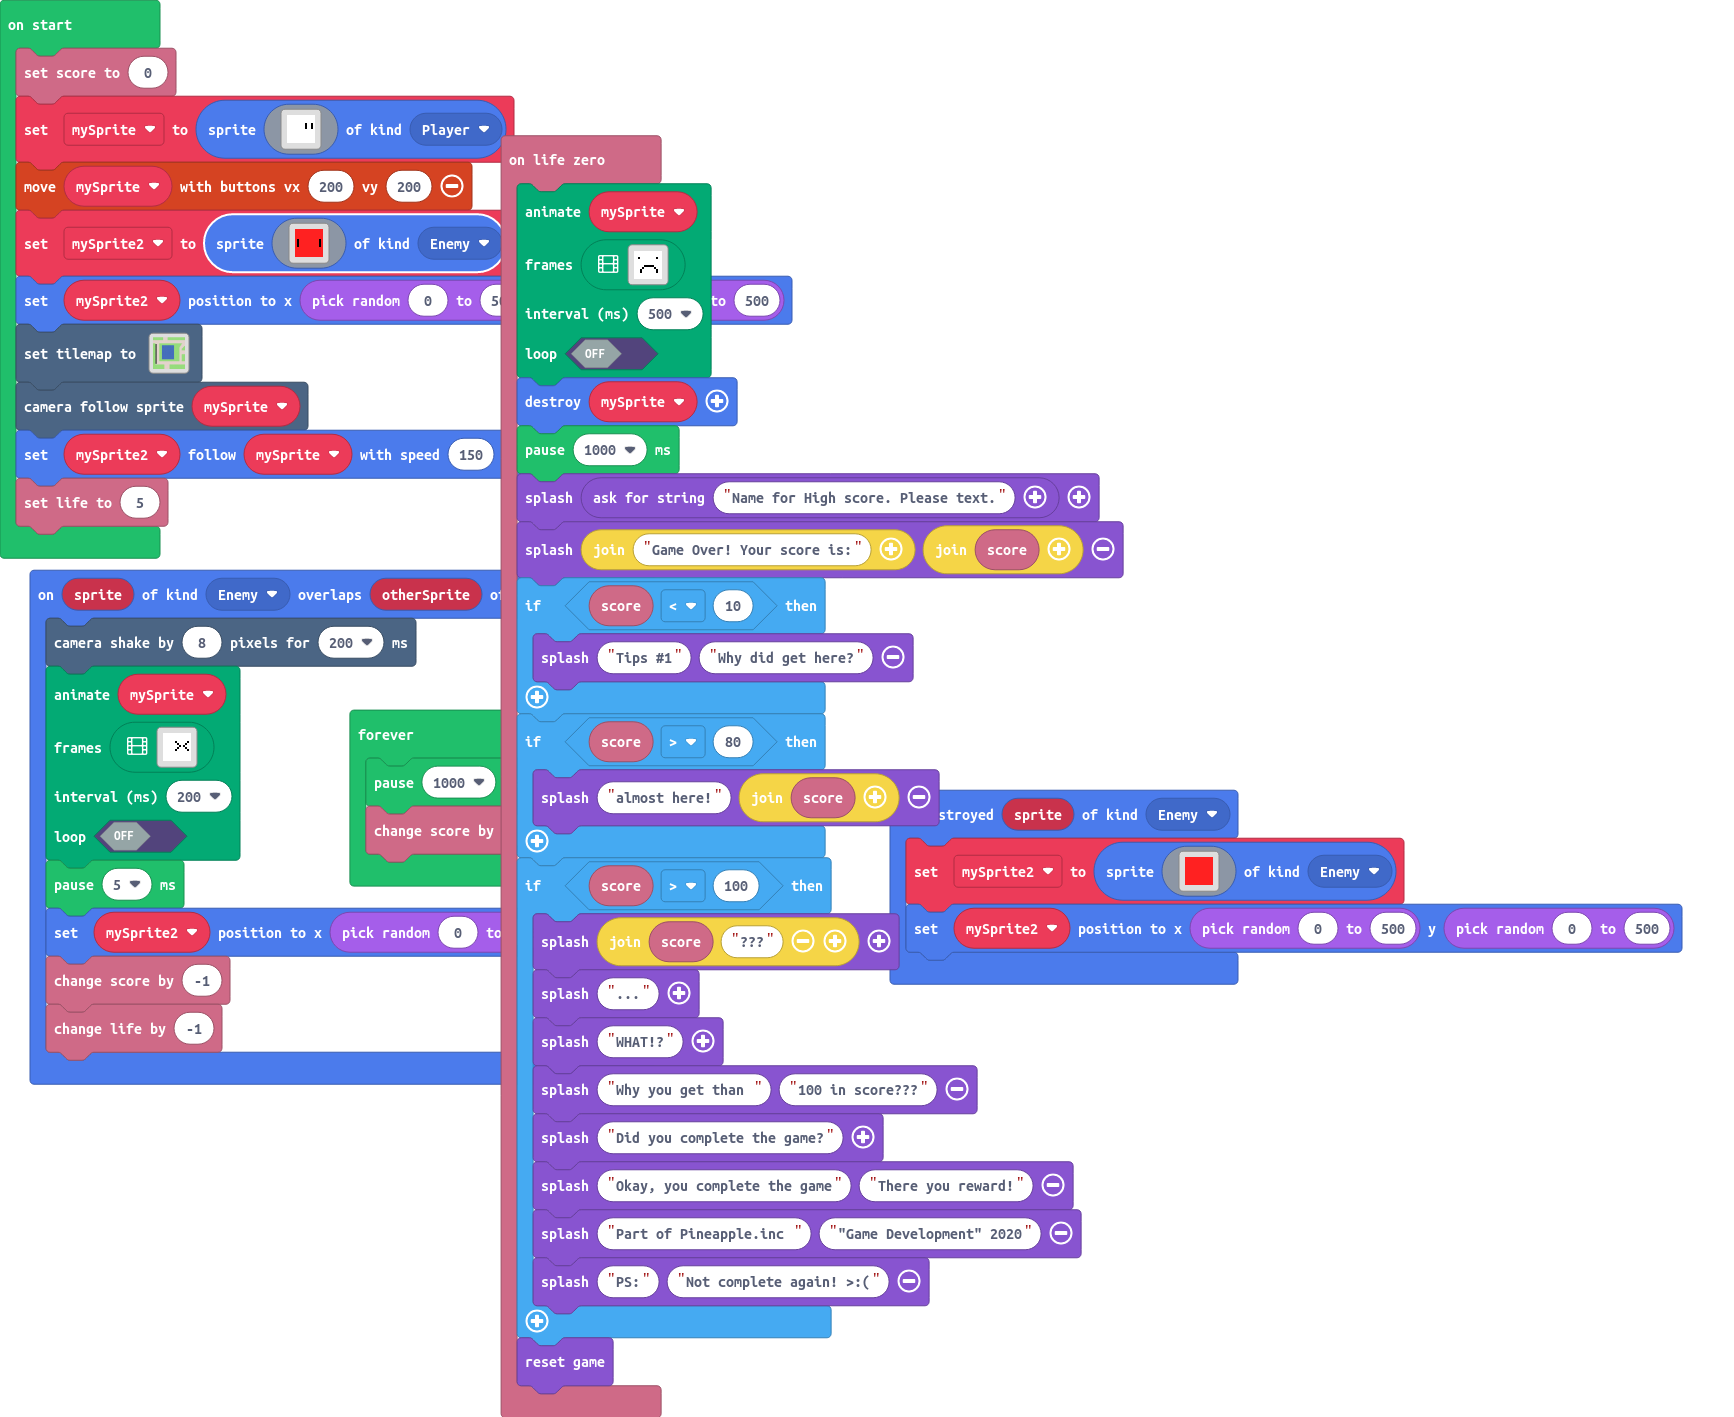
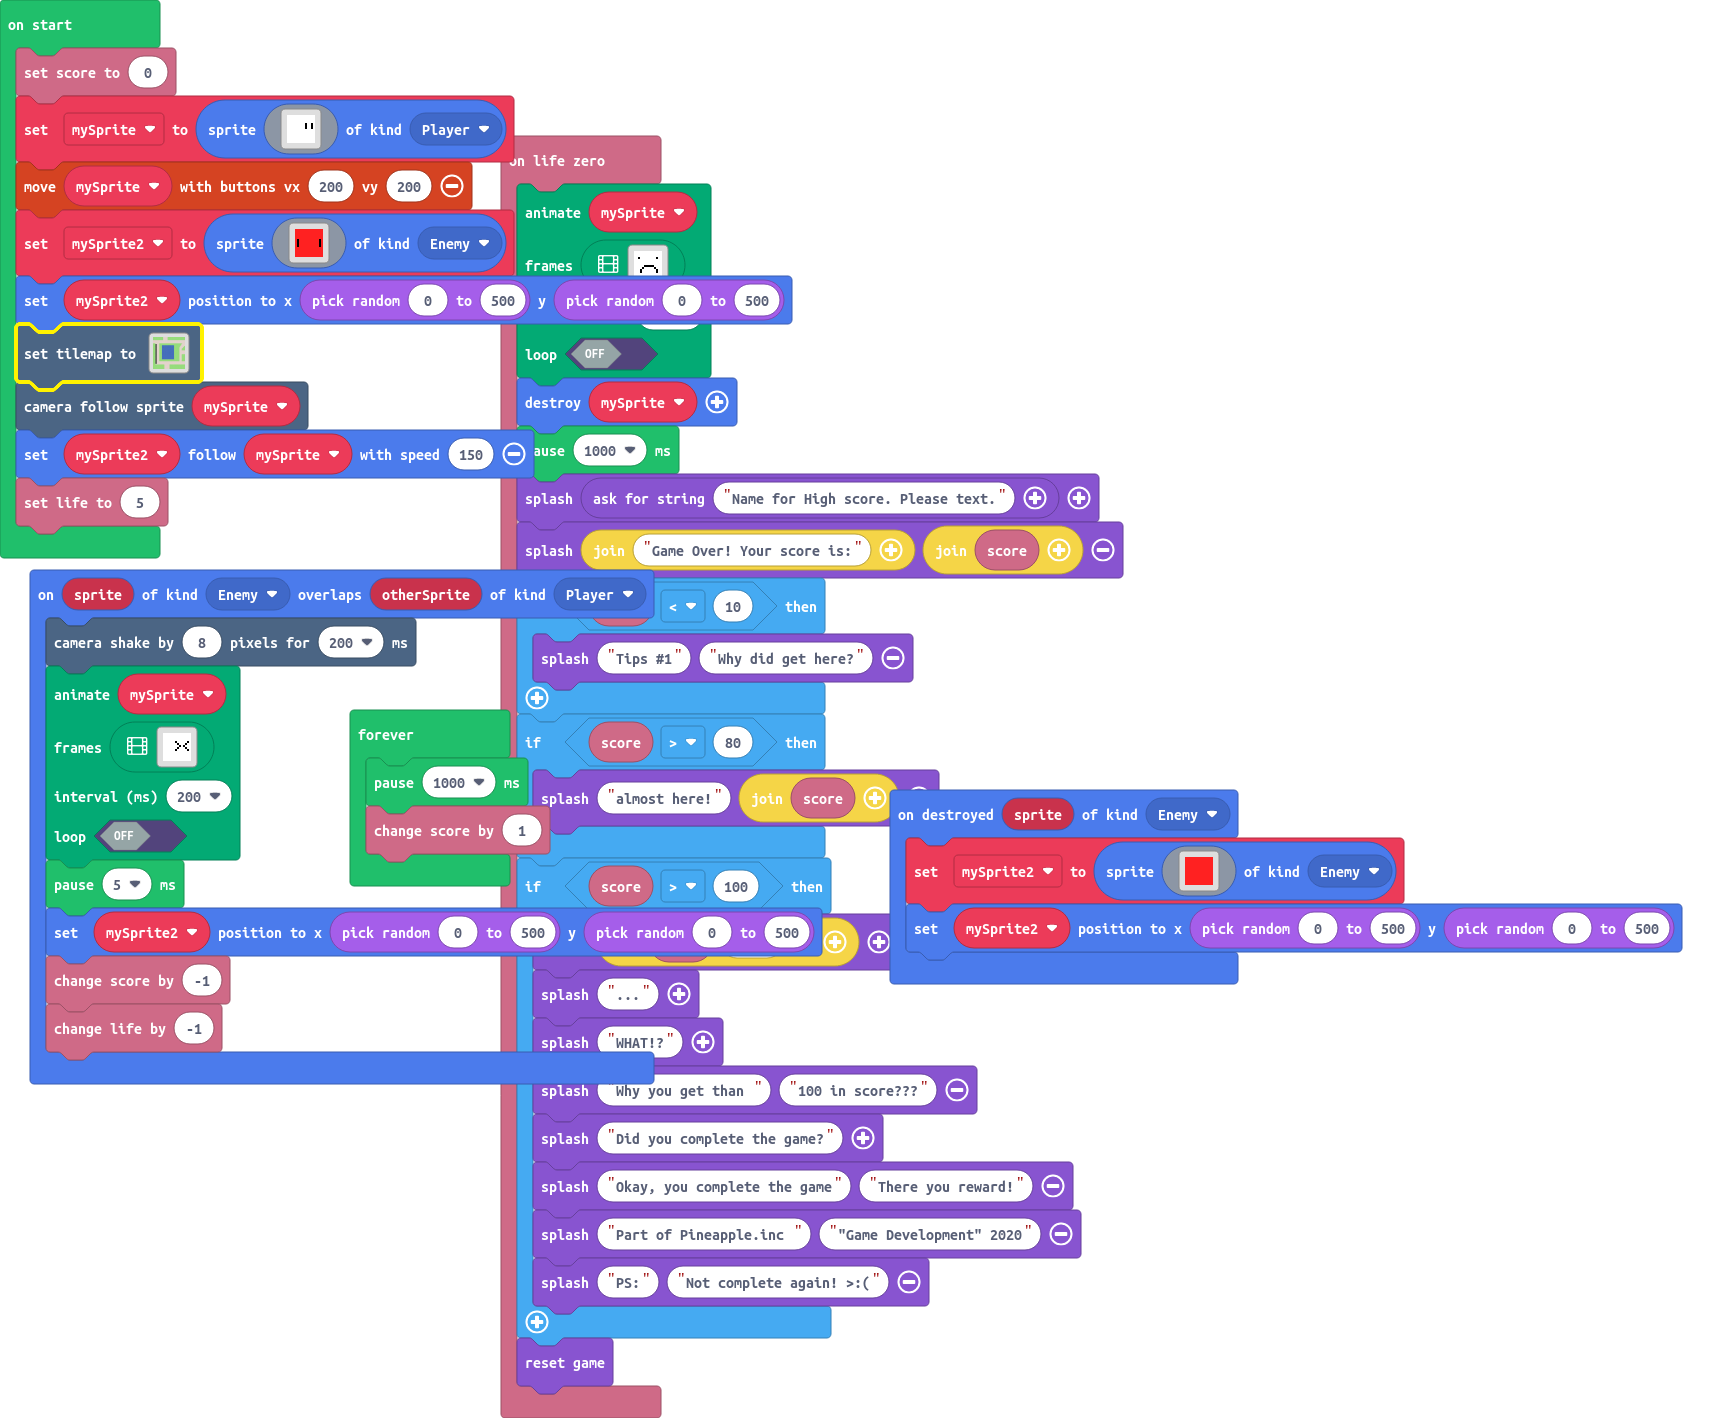
6.3: Brand New Maps!

diff --git a/main.ts b/main.ts
@@ -204,7 +204,7 @@ mySprite2 = sprites.create(img`
     . . . . . . . . . . . . . . . . 
     `, SpriteKind.Enemy)
 mySprite2.setPosition(randint(0, 500), randint(0, 500))
-tiles.setTilemap(tiles.createTilemap(hex`3200320003030303030303030303030303030303010101010101010303030303030303030303030303030303030303030303030303030303030303030303030303030303030301010101010101030303030303030303030303030303030303030303030303030303030303030303030303030303030303030101010101010103030303030303030303030303030303030303030303030303030303030303030303030303030303030303010101010101010303030303030303030303030303030303030303030303030303030303030303030303030303030303030301010101010101030303030303030303030303030303030303030303030303030303010101010101010101010101010101010101010101010101010101010101010101010101010101010101010101010101010101010101010101010101010101010101010101010101010101010101010101010101010101010101010101010101010101010101010101010101010101010101010101010101010101010101010101010101010101010101010101010101010101010101010101010101010101010101010101010101010101010101010101010101010101010101010101010101010101010101010101010101010101010101010101010101010101010101010101010101010101010101010101010101010101010101010101010303030301010101010103030303030303030303030303030303030303030303030303030303030303030303030401010101030303030505010101010303030303030303030303030303030303030303030303030303030303030303030304010101010103030303050501010101030303030303030303030303030303030303030303030303030303030303030303030401010101010303030305050101010103030303020202020202020202020202020202020202020303030303030303030304010101010101030303030505010101010303030302020202020202020202020202020202020202030303030303030303040101010101010303030303050501010101030303030202020202020202020202020202020202020203030303030303030304010101010103030303030305050101010103030303020202020202020202020202020202020202020303030303030303040101010101030303030303030505010101010303030302020202020202020202020202020202020202030303030303030304010101010303030303030303050501010101030303030202020202020202020202020202020202020203030303030303030401010103030303030303030305050101010103030303020202020202020202020202020202020202020303030303030303040101010303030303030303030505010101010303030302020202020202020202020202020202020202030303030303030304010101030303030303030303050501010101030303030202020202020202020202020202020202020203030303030303030401010101010101010303030305050101010103030303020202020202020202020202020202020202020303030303030303040101010101010101030303030505010101010303030302020202020202020202020202020202020202030303030303030304010101010101010103030303050501010101030303030202020202020202020202020202020202020203030303030303030401010101010101010303030305050101010103030303020202020202020202020202020202020202020303030303030303040101010101010101030303030505010101010303030302020202020202020202020202020202020202030303030303030304010101010101010103030303050501010101030303030202020202020202020202020202020202020203030303030303030401010103030303030303030305050101010103030303020202020202020202020202020202020202020303030303030303040101010303030303030303030505010101010303030302020202020202020202020202020202020202030303030303030304010101030303030303030303050501010101030303030202020202020202020202020202020202020203030303030303030401010103030303030303030305050101010103030303020202020202020202020202020202020202020303030303030303040101010303030303030303030505010101010303030302020202020202020202020202020202020202030303030303030304010101030303030303030303050501010101030303030202020202020202020202020202020202020203030303030303030401010103030303030303030305050101010103030303020202020202020202020202020202020202020303030303030303040101010303030303030303030505010101010303030303030303030303030303030303030303030303030303030303030304010101030303030303030303050501010101030303030303030303030303030303030303030303030303030303030303030401010103030303030303030305050101010103030303030303030303030303030303030303030303030303030303030303040101010303030303030303030505010101010101010101010101010101010101010101010101010101010101010101010101010101010101010103030303050501010101010101010101010101010101010101010101010101010101010101010101010101010101010101010303030305050101010101010101010101010101010101010101010101010101010101010101010101010101010101010101030303030505010101010101010101010101010101010101010101010101010101010101010101010101010101010101010103030303010101010101010101010101010101010101010101010101010101010101010101010101010101010101010101010303030303030303030303030303030303030101010101010101030303030303030303030303030303030303030303030303030303030303030303030303030303030303010101010101010103030303030303030303030303030303030303030303030303030303030303030303030303030303030301010101010101010303030303030303030303030303030303030303030303030303030303030303030303030303030303030101010101010101030303030303030303030303030303030303030303030303030303030303030303030303030303030303010101010101010103030303030303030303030303030303030303030303030303030303030303030303030303030303030301010101010101010303030303030303030303030303030303030303030303030303030303030303030303030303030303030101010101010101030303030303030303030303030303030303030303030303`, img`
[1 lines of base64/hex data omitted]
     . . . . . . . . . . . . . . . . . . . . . . . . . . . . . . . . . . . . . . . . . . . . . . . . . . 
     . . . . . . . . . . . . . . . . . . . . . . . . . . . . . . . . . . . . . . . . . . . . . . . . . . 
     . . . . . . . . . . . . . . . . . . . . . . . . . . . . . . . . . . . . . . . . . . . . . . . . . . 
@@ -255,7 +255,27 @@ tiles.setTilemap(tiles.createTilemap(hex`320032000303030303030303030303030303030
     . . . . . . . . . . . . . . . . . . . . . . . . . . . . . . . . . . . . . . . . . . . . . . . . . . 
     . . . . . . . . . . . . . . . . . . . . . . . . . . . . . . . . . . . . . . . . . . . . . . . . . . 
     . . . . . . . . . . . . . . . . . . . . . . . . . . . . . . . . . . . . . . . . . . . . . . . . . . 
-    `, [myTiles.transparency16,myTiles.tile1,myTiles.tile2,myTiles.tile3,myTiles.tile5,myTiles.tile6], TileScale.Sixteen))
+    . . . . . . . . . . . . . . . . . . . . . . . . . . . . . . . . . . . . . . . . . . . . . . . . . . 
+    . . . . . . . . . . . . . . . . . . . . . . . . . . . . . . . . . . . . . . . . . . . . . . . . . . 
+    . . . . . . . . . . . . . . . . . . . . . . . . . . . . . . . . . . . . . . . . . . . . . . . . . . 
+    . . . . . . . . . . . . . . . . . . . . . . . . . . . . . . . . . . . . . . . . . . . . . . . . . . 
+    . . . . . . . . . . . . . . . . . . . . . . . . . . . . . . . . . . . . . . . . . . . . . . . . . . 
+    . . . . . . . . . . . . . . . . . . . . . . . . . . . . . . . . . . . . . . . . . . . . . . . . . . 
+    . . . . . . . . . . . . . . . . . . . . . . . . . . . . . . . . . . . . . . . . . . . . . . . . . . 
+    . . . . . . . . . . . . . . . . . . . . . . . . . . . . . . . . . . . . . . . . . . . . . . . . . . 
+    . . . . . . . . . . . . . . . . . . . . . . . . . . . . . . . . . . . . . . . . . . . . . . . . . . 
+    . . . . . . . . . . . . . . . . . . . . . . . . . . . . . . . . . . . . . . . . . . . . . . . . . . 
+    . . . . . . . . . . . . . . . . . . . . . . . . . . . . . . . . . . . . . . . . . . . . . . . . . . 
+    . . . . . . . . . . . . . . . . . . . . . . . . . . . . . . . . . . . . . . . . . . . . . . . . . . 
+    . . . . . . . . . . . . . . . . . . . . . . . . . . . . . . . . . . . . . . . . . . . . . . . . . . 
+    . . . . . . . . . . . . . . . . . . . . . . . . . . . . . . . . . . . . . . . . . . . . . . . . . . 
+    . . . . . . . . . . . . . . . . . . . . . . . . . . . . . . . . . . . . . . . . . . . . . . . . . . 
+    . . . . . . . . . . . . . . . . . . . . . . . . . . . . . . . . . . . . . . . . . . . . . . . . . . 
+    . . . . . . . . . . . . . . . . . . . . . . . . . . . . . . . . . . . . . . . . . . . . . . . . . . 
+    . . . . . . . . . . . . . . . . . . . . . . . . . . . . . . . . . . . . . . . . . . . . . . . . . . 
+    . . . . . . . . . . . . . . . . . . . . . . . . . . . . . . . . . . . . . . . . . . . . . . . . . . 
+    . . . . . . . . . . . . . . . . . . . . . . . . . . . . . . . . . . . . . . . . . . . . . . . . . . 
+    `, [myTiles.transparency16,myTiles.tile1,myTiles.tile2,myTiles.tile3,myTiles.tile5,myTiles.tile6,myTiles.tile4,myTiles.tile7,myTiles.tile8,myTiles.tile9,myTiles.tile10], TileScale.Sixteen))
 scene.cameraFollowSprite(mySprite)
 mySprite2.follow(mySprite, 150)
 info.setLife(5)
